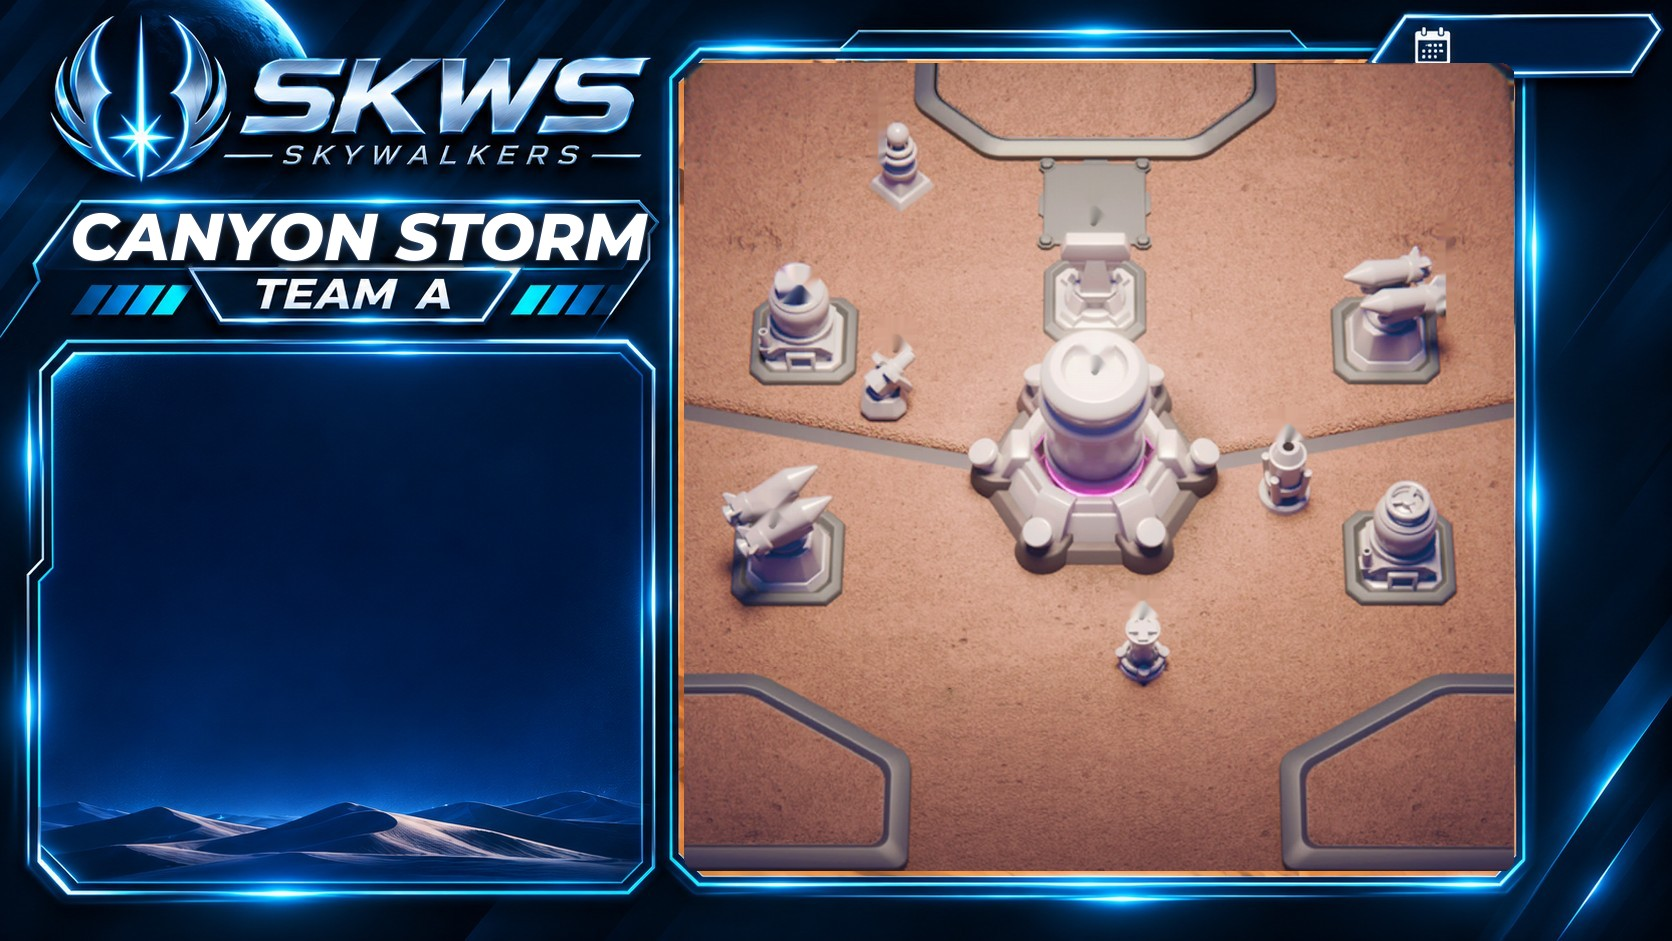
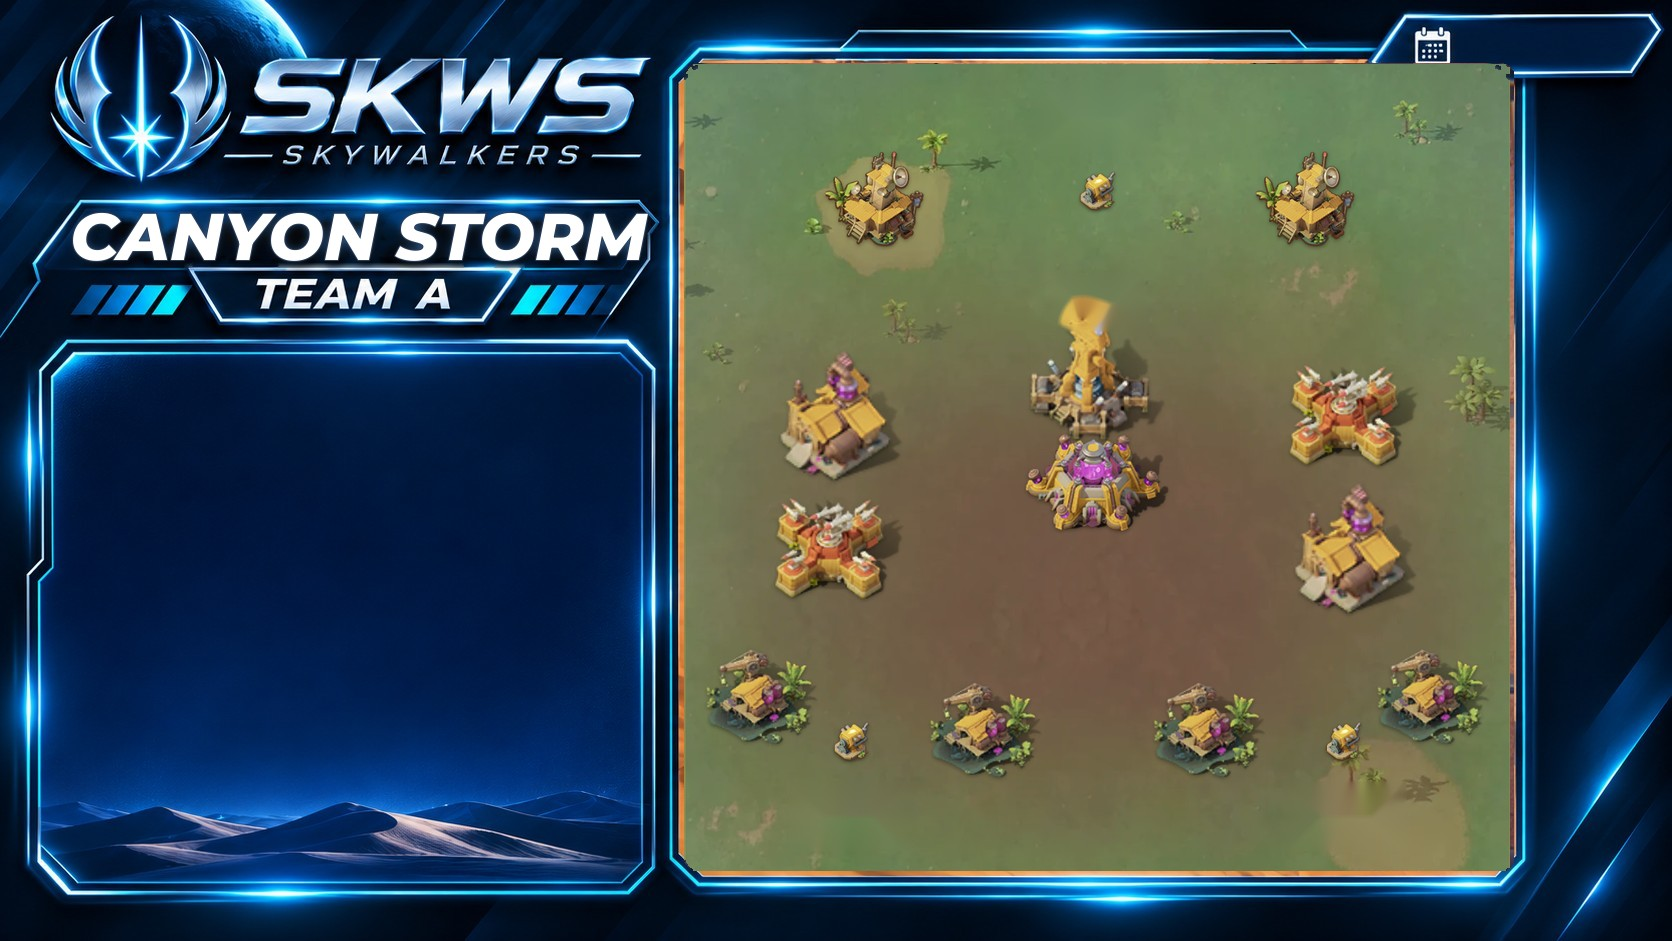
Schluchtsturm: vollständige Karte mit allen 12 Gebäuden
Neue Vorlagen mit der echten Spielkarte (Datenzentren, Serumfabriken,
Verteidigungssysteme, Energieturm, Hochsicherheitslabor, 4 Probenlager).
Feste Positionen statt Zuordnung von Hand; Ordnungshüter-Taktik startet oben.

Claude-Session: https://claude.ai/code/session_01F5c3bMomP28J17UMf2karK

diff --git a/admin.html b/admin.html
@@ -414,14 +414,7 @@
       </div>
 
       <div class="card">
-        <h2>2 · Gebäude auf der Karte</h2>
-        <p class="small muted" style="margin:0 0 8px">Belegt sind: Viruslabor (Mitte), Energieturm (darüber), Schutzzone Apollo (oben), Morgenbringer-Start (unten links/rechts) sowie laut Übersicht von alliance-ops.com 2 = Serumfabrik I, 4 = Verteidigungssystem II, 5 = Verteidigungssystem I, 7 = Serumfabrik II. Für 1, 3, 6 und 8 (Datenzentren bzw. Probenlager) bitte im Spiel antippen und hier wählen. Wird auf diesem Gerät gespeichert.</p>
-        <img src="cs-nummern.jpg" alt="Karte mit Nummern 1–8" style="width:100%;max-width:520px;display:block;margin:0 auto 10px;border-radius:10px">
-        <div class="formrow" id="csMapRow"></div>
-      </div>
-
-      <div class="card">
-        <h2>3 · Gemeldete Spieler</h2>
+        <h2>2 · Gemeldete Spieler</h2>
         <div class="dscount" id="csCount"></div>
         <div class="toolbar"><input id="csSearch" type="search" placeholder="Spieler suchen…"></div>
         <div class="chips">
@@ -432,7 +425,7 @@
       </div>
 
       <div class="card">
-        <h2>4 · Taktik &amp; Einsatzplan</h2>
+        <h2>3 · Taktik &amp; Einsatzplan</h2>
         <div class="btnrow"><button class="btn" id="csRun">Taktik erstellen</button><button class="btn2" id="csExample">Beispiel zeigen</button></div>
         <div id="csResult"></div>
         <div class="hide" id="csActions">
@@ -1488,13 +1481,13 @@
   }
 
   /* ---------- Schluchtsturm (Canyon Storm, 2 gegen 1) ---------- */
-  // Belegt (dracgon.tech, lastcmd.com): Schutzzone Apollo oben, darunter Energieturm, Viruslabor in der Mitte,
+  // Belegt (dracgon.tech, lastcmd.com): Sicherheitszone der Ordnungshüter oben, darunter Energieturm, Hochsicherheitslabor in der Mitte,
   // Morgenbringer-Start unten links/rechts. Gebäude 1–8 ordnet der Admin im Tab zu (keine überprüfbare Quelle).
   var CS_B = {
-    de: { lab:'Viruslabor', tower:'Energieturm', safe:'Schutzzone Apollo', spl:'Morgenbringer-Start', spr:'Morgenbringer-Start',
+    de: { lab:'Hochsicherheitslabor', tower:'Energieturm', safe:'Sicherheitszone Ordnungshüter', spl:'Morgenbringer-Start', spr:'Morgenbringer-Start',
           dc1:'Datenzentrum I', dc2:'Datenzentrum II', sf1:'Serumfabrik I', sf2:'Serumfabrik II', ds1:'Verteidigungssystem I', ds2:'Verteidigungssystem II',
           sw1:'Probenlager I', sw2:'Probenlager II', sw3:'Probenlager III', sw4:'Probenlager IV', base:'Basis' },
-    en: { lab:'Virus Lab', tower:'Power Tower', safe:'Apollo Safe Zone', spl:'Dawnbreaker Spawn', spr:'Dawnbreaker Spawn',
+    en: { lab:'Virus Lab', tower:'Power Tower', safe:'Rulebringer Safe Zone', spl:'Dawnbreaker Spawn', spr:'Dawnbreaker Spawn',
           dc1:'Data Center I', dc2:'Data Center II', sf1:'Serum Factory I', sf2:'Serum Factory II', ds1:'Defense System I', ds2:'Defense System II',
           sw1:'Sample Warehouse I', sw2:'Sample Warehouse II', sw3:'Sample Warehouse III', sw4:'Sample Warehouse IV', base:'Base' }
   };
@@ -1508,11 +1501,11 @@
   var CS_PHL = { de: { p0:'Start (0–10 Min.)', p10:'Ab 10 Min.', p12:'Ab 12 Min.' }, en: { p0:'Start (min 0–10)', p10:'From min 10', p12:'From min 12' } };
   var CS_TACTICS = {
     lab: {
-      name: 'Morgenbringer – wir greifen das Viruslabor an',
-      desc: 'Absprache mit der Partner-Allianz: Wir nehmen das Viruslabor, die Partner halten die Gebäude dazwischen. Die 5 Stärksten sichern ab 0:30 den Energieturm und greifen um 12:00 gemeinsam das Viruslabor an. Der Rest hält Datenzentren und Probenlager und holt sich Serumfabriken und Verteidigungssysteme, sobald sie öffnen.',
+      name: 'Morgenbringer – wir greifen das Hochsicherheitslabor an',
+      desc: 'Absprache mit der Partner-Allianz: Wir nehmen das Hochsicherheitslabor, die Partner halten die Gebäude dazwischen. Die 5 Stärksten sichern ab 0:30 den Energieturm und greifen um 12:00 gemeinsam das Hochsicherheitslabor an. Der Rest hält Datenzentren und Probenlager und holt sich Serumfabriken und Verteidigungssysteme, sobald sie öffnen.',
       en: 'Agreed with our partner alliance: we take the Virus Lab, they hold the buildings in between. The 5 strongest secure the Power Tower from 0:30 and attack the Virus Lab together at 12:00. The rest hold the Data Centers and Sample Warehouses and take the Serum Factories and Defense Systems as soon as they open.',
       when: 'Wenn eure Allianz die stärkere der beiden Morgenbringer ist.',
-      pro: 'Das Viruslabor bringt mit 120 Punkten/Sek. am meisten.',
+      pro: 'Das Hochsicherheitslabor bringt mit 120 Punkten/Sek. am meisten.',
       con: 'Klappt nur mit Absprache – sonst greifen beide Allianzen dasselbe an und die Außengebäude bleiben leer.',
       ph: ['p0','p10','p12'],
       groups: [
@@ -1532,7 +1525,7 @@
     },
     mid: {
       name: 'Morgenbringer – Partner greift an, wir halten die Mitte',
-      desc: 'Absprache mit der Partner-Allianz: Die Partner nehmen das Viruslabor, wir halten Energieturm, Datenzentren und Probenlager und besetzen ab 10 Minuten beide Verteidigungssysteme, die die Wege zur Mitte bewachen.',
+      desc: 'Absprache mit der Partner-Allianz: Die Partner nehmen das Hochsicherheitslabor, wir halten Energieturm, Datenzentren und Probenlager und besetzen ab 10 Minuten beide Verteidigungssysteme, die die Wege zur Mitte bewachen.',
       en: 'Agreed with our partner alliance: they take the Virus Lab, we hold the Power Tower, Data Centers and Sample Warehouses and occupy both Defense Systems from minute 10, which guard the paths to the center.',
       when: 'Wenn die Partner-Allianz stärker ist oder das Labor angreifen will.',
       pro: 'Sichere Punkte von vielen Gebäuden, die Wege zur Mitte sind geschützt.',
@@ -1554,8 +1547,8 @@
       ]
     },
     rule: {
-      name: 'Ordnungshüter (wir allein) – konzentrieren',
-      desc: 'Als einzelne Allianz nicht alles verteidigen: Die 5 Stärksten nehmen den Energieturm (Schild über die Schutzzone) und halten ab 12 Minuten das Viruslabor bis zum Schluss. Judicator für das Labor-Fenster aufheben. Der Rest hält Datenzentren, Serumfabriken und Verteidigungssysteme.',
+      name: 'Ordnungshüter (wir allein) – konzentrieren', top: true,
+      desc: 'Als einzelne Allianz nicht alles verteidigen: Die 5 Stärksten nehmen den Energieturm (Schild über die Schutzzone) und halten ab 12 Minuten das Hochsicherheitslabor bis zum Schluss. Judicator für das Labor-Fenster aufheben. Der Rest hält Datenzentren, Serumfabriken und Verteidigungssysteme.',
       en: 'As a single alliance, do not defend everything: the 5 strongest take the Power Tower (shield over the safe zone) and hold the Virus Lab from minute 12 to the end. Save the Judicator for the Virus Lab window. The rest hold the Data Centers, Serum Factories and Defense Systems.',
       when: 'Wenn eure Allianz in dieser Runde die Ordnungshüter-Seite spielt.',
       pro: 'Kräfte gebündelt, Labor und Schild in eurer Hand.',
@@ -1575,10 +1568,12 @@
   };
   // Vorlagen (1672×941): Gebäude-Mitte und Namensschild in Vorlagen-Pixeln; B liegt 11 px weiter rechts.
   // [Mitte x, y, Schild x, y, (optional) Namen x, y]
-  var CST_BASE = { safe:[1095,105,1095,105], tower:[1095,291,1095,232,1240,258], lab:[1093,451,1093,500], spl:[776,766,776,766], spr:[1417,766,1417,766], base:[1095,820,1095,820],
-    n1:[901,167,901,197], n2:[804,333,804,372,772,392], n3:[887,381,905,432], n4:[1386,326,1386,366], n5:[787,527,787,566], n6:[1285,471,1285,500], n7:[1400,541,1400,580], n8:[1143,645,1143,675] };
+  var CST_BASE = { safe:[1095,115,1095,115], tower:[1089,373,1089,296,1089,318], lab:[1092,486,1092,537], spl:[848,815,800,853], spr:[1347,815,1395,853],
+    base:[1092,820,1092,820], baseTop:[1095,150,1095,150],
+    dc1:[872,201,872,252], dc2:[1310,199,1310,252], sf1:[837,420,837,475], ds2:[1345,416,1345,475], ds1:[829,549,829,604], sf2:[1353,549,1353,611],
+    sw1:[758,697,758,748], sw2:[980,729,980,690,980,652], sw3:[1202,729,1202,690,1202,652], sw4:[1427,697,1427,748] };
   var CST_T = { A: { dx: 0, box:[62,368,636,790], map:[690,1510], time:[1462,47], low:700 }, B: { dx: 11, box:[62,372,646,790], map:[700,1522], time:[1430,45], low:700 } };
-  var CS_KEY = 'skws_cs', CS_MAP_KEY = 'skws_cs_map', CS_ONLYSEL = false, CS_LAST = null, CS_IMGS = {};
+  var CS_KEY = 'skws_cs', CS_ONLYSEL = false, CS_LAST = null, CS_IMGS = {};
   function csState(){
     var st = null; try { st = JSON.parse(ls(CS_KEY) || 'null'); } catch(e){}
     st = st || {}; st.assign = st.assign || {}; st.time = st.time || {A:'',B:''}; st.opp = st.opp || {A:'',B:''};
@@ -1586,24 +1581,10 @@
     return st;
   }
   function csSave(st){ try { ls(CS_KEY, JSON.stringify(st)); } catch(e){} }
-  // Abgleich mit der Übersicht auf alliance-ops.com (Serumfabrik I links/oben, Verteidigungssystem II rechts/oben,
-  // Verteidigungssystem I links/unten, Serumfabrik II rechts/unten) und den Gebäudeformen auf der Spielkarte.
-  var CS_MAP_DEF = { n2:'sf1', n4:'ds2', n5:'ds1', n7:'sf2' };
-  function csMap(){ var m = null; try { m = JSON.parse(ls(CS_MAP_KEY) || 'null'); } catch(e){} m = m || {}; var o = {}, used = {}; Object.keys(m).forEach(function(k){ o[k] = m[k]; used[m[k]] = 1; }); Object.keys(CS_MAP_DEF).forEach(function(k){ if (!(k in o) && !used[CS_MAP_DEF[k]]) o[k] = CS_MAP_DEF[k]; }); return o; }
-  function csPosKey(k){ if (CST_BASE[k]) return k; var m = csMap(); for (var n in m) if (m[n] === k) return n; return null; }
   function csAct(step, lang){ var t = CS_A[lang || 'de'][step[0]] || step[0]; return t.split('{b}').join(CS_B[lang || 'de'][step[1]] || ''); }
   function csTacInfo(t){
     var T = CS_TACTICS[$('csTac' + t).value] || CS_TACTICS.lab;
     $('csTacInfo' + t).innerHTML = '<b>' + esc(T.name) + '</b><br>' + esc(T.desc) + '<br><span class="muted">Wann: </span>' + esc(T.when) + '<br><span class="up">+ </span>' + esc(T.pro) + '<br><span class="down">− </span>' + esc(T.con);
-  }
-  function csRenderMap(){
-    var m = csMap(), used = {};
-    Object.keys(m).forEach(function(n){ used[m[n]] = n; });
-    $('csMapRow').innerHTML = [1,2,3,4,5,6,7,8].map(function(i){
-      var n = 'n' + i, v = m[n] || '';
-      return '<div><label>Gebäude ' + i + '</label><select data-csmap="' + n + '"><option value="">– noch unbekannt –</option>' +
-        CS_TYPES.map(function(k){ return '<option value="' + k + '"' + (v === k ? ' selected' : '') + (used[k] && used[k] !== n ? ' disabled' : '') + '>' + CS_B.de[k] + '</option>'; }).join('') + '</select></div>';
-    }).join('');
   }
   function csRender(){
     if (!D) return;
@@ -1613,7 +1594,7 @@
       $('csTac' + t).value = CS_TACTICS[st.tac[t]] ? st.tac[t] : 'lab'; csTacInfo(t);
     });
     $('csMetric').value = st.metric;
-    csRenderMap(); csRenderList();
+    csRenderList();
   }
   function csRenderList(){
     var st = csState(), m = st.metric, q = $('csSearch').value.trim().toLowerCase();
@@ -1644,8 +1625,6 @@
       if (stamm.length > 20) warn.push('Team ' + t + ': ' + stamm.length + ' Stammspieler – im Spiel sind nur 20 möglich.');
       plan.teams[t] = { time: st.time[t] || '', opp: st.opp[t] || '', note: st.note[t] || '', tac: tk, ph: TC.ph, m: members, s: subs.map(function(p){ return p.name; }) };
     });
-    var miss = CS_TYPES.filter(function(k){ return !csPosKey(k); });
-    if (miss.length) warn.push('Noch ohne Kartenposition (oben unter „2 · Gebäude auf der Karte“ zuordnen): ' + miss.map(function(k){ return CS_B.de[k]; }).join(', ') + '. Diese Spieler stehen im Bild nur im Briefing.');
     return { plan: plan, warn: warn, by: by };
   }
   function csGroupsOf(T){
@@ -1684,23 +1663,23 @@
   }
   function csChat(t){
     var T = CS_LAST.plan.teams[t], out = ['SKWS Schluchtsturm Team ' + t + (T.time ? ' - ' + T.time : '') + ' - Plan siehe Bild'];
-    csGroupsOf(T).forEach(function(x){ x.g.steps.forEach(function(s){ if (s[0] === 'rally') out.push('- ' + x.names.join(', ') + ': ab 11:30 sammeln, um 12:00 zusammen aufs Viruslabor und bis zum Ende halten.'); }); });
+    csGroupsOf(T).forEach(function(x){ x.g.steps.forEach(function(s){ if (s[0] === 'rally') out.push('- ' + x.names.join(', ') + ': ab 11:30 sammeln, um 12:00 zusammen aufs Hochsicherheitslabor und bis zum Ende halten.'); }); });
     if (T.s.length) out.push('- Ersatz in dieser Reihenfolge: ' + T.s.join(', ') + '. Ersatz übernimmt die Aufgabe dessen, der ausfällt.');
     out.push('- Basen nicht direkt nebeneinander stellen (Judicator trifft benachbarte Basen).');
     out.push('- Höchstens 5 Spieler pro Gebäude. Gebäude halten, Punkte-Kisten einsammeln.');
-    out.push('- Das Viruslabor in den letzten Minuten nicht verlassen.');
+    out.push('- Das Hochsicherheitslabor in den letzten Minuten nicht verlassen.');
     out.push('Deinen Einsatz siehst du auch im Bild.');
     return out.join('\n');
   }
   function csLoadTpl(t, lang, cb){
     var key = t + lang; if (CS_IMGS[key]) return cb(CS_IMGS[key]);
-    var im = new Image(); im.onload = function(){ CS_IMGS[key] = im; cb(im); }; im.onerror = function(){ cb(null); }; im.src = 'cs-vorlage-' + t.toLowerCase() + '-' + lang + '.jpg?v=1';
+    var im = new Image(); im.onload = function(){ CS_IMGS[key] = im; cb(im); }; im.onerror = function(){ cb(null); }; im.src = 'cs-vorlage-' + t.toLowerCase() + '-' + lang + '.jpg?v=2';
   }
   function csRender_img(t, lang, IMG){
     var DE = lang === 'de', L = DE ? 'de' : 'en', CT = CST_T[t], T = CS_LAST.plan.teams[t], TC = CS_TACTICS[T.tac], groups = csGroupsOf(T);
     var S = 1920 / 1672, W = 1920, H = Math.round(941 * S), c = document.createElement('canvas'); c.width = W; c.height = H;
     var g = c.getContext('2d'); g.lineJoin = 'round'; g.miterLimit = 2; g.drawImage(IMG, 0, 0, W, H);
-    function B(k){ var pk = csPosKey(k); if (!pk) return null; var p = CST_BASE[pk]; return { x: (p[0] + CT.dx) * S, y: p[1] * S, lx: (p[2] + CT.dx) * S, ly: p[3] * S, nx: ((p[4] || p[2]) + CT.dx) * S, ny: (p[5] || p[3] + 21) * S }; }
+    function B(k){ var p = CST_BASE[k === 'base' && TC.top ? 'baseTop' : k]; if (!p) return null; return { x: (p[0] + CT.dx) * S, y: p[1] * S, lx: (p[2] + CT.dx) * S, ly: p[3] * S, nx: ((p[4] || p[2]) + CT.dx) * S, ny: (p[5] || p[3] + 21) * S }; }
     // Gebäude-Beschriftungen (belegte + zugeordnete)
     g.textAlign = 'center'; g.textBaseline = 'middle'; g.font = 'italic 600 19px system-ui, sans-serif';
     function tag(text, x, y){ var w = g.measureText(text).width + 18; g.fillStyle = 'rgba(10,16,28,.92)'; g.beginPath(); if (g.roundRect) g.roundRect(x - w/2, y - 14, w, 28, 7); else g.rect(x - w/2, y - 14, w, 28); g.fill(); g.fillStyle = '#fff'; g.fillText(text, x, y); }
@@ -1722,8 +1701,8 @@
       var maxW = k === 'base' ? 520 : 220;
       blocks.forEach(function(blk){ var Ls = [], cur = ''; blk.names.forEach(function(nm){ var tst = cur ? cur + ', ' + nm : nm; if (cur && g.measureText(tst).width > maxW) { Ls.push(cur); cur = nm; } else cur = tst; }); if (cur) Ls.push(cur); blk.lines = Ls; });
       var tot = blocks.reduce(function(a, b){ return a + b.lines.length * LH + 14; }, 0);
-      var y = k === 'base' ? p.y - tot + 14 : p.ny;
-      if (k === 'base') textOps.push({ s: CS_B[L].base, x: p.x, y: y - 26, small: true });
+      var y = k === 'base' ? (TC.top ? p.y : p.y - tot + 14) : p.ny;
+      if (k === 'base' && !TC.top) textOps.push({ s: CS_B[L].base, x: p.x, y: y - 26, small: true });
       blocks.forEach(function(blk){
         var w = Math.max.apply(null, blk.lines.map(function(s){ return g.measureText(s).width; }));
         var cx = Math.min(Math.max(k === 'base' ? p.x : p.nx, CT.map[0] * S + w / 2 + 26), CT.map[1] * S - w / 2 - 26);
@@ -1804,7 +1783,6 @@
     $('csOnlySel').addEventListener('click', function(){ CS_ONLYSEL = !CS_ONLYSEL; csRenderList(); });
     $('csClear').addEventListener('click', function(){ if (!confirm('Alle Schluchtsturm-Zuordnungen löschen?')) return; upd(function(st){ st.assign = {}; }); csRenderList(); });
     $('csList').addEventListener('change', function(e){ var s = e.target.closest('select[data-cs]'); if (!s) return; var n = s.dataset.cs, v = s.value; upd(function(st){ if (v) st.assign[n] = v; else delete st.assign[n]; }); csRenderList(); });
-    $('csMapRow').addEventListener('change', function(e){ var s = e.target.closest('select[data-csmap]'); if (!s) return; var m = csMap(); if (s.value) m[s.dataset.csmap] = s.value; else m[s.dataset.csmap] = ''; try { ls(CS_MAP_KEY, JSON.stringify(m)); } catch(x){} csRenderMap(); });
     $('csRun').addEventListener('click', function(){ csRun(false); });
     $('csExample').addEventListener('click', function(){ csRun(true); });
   })();
